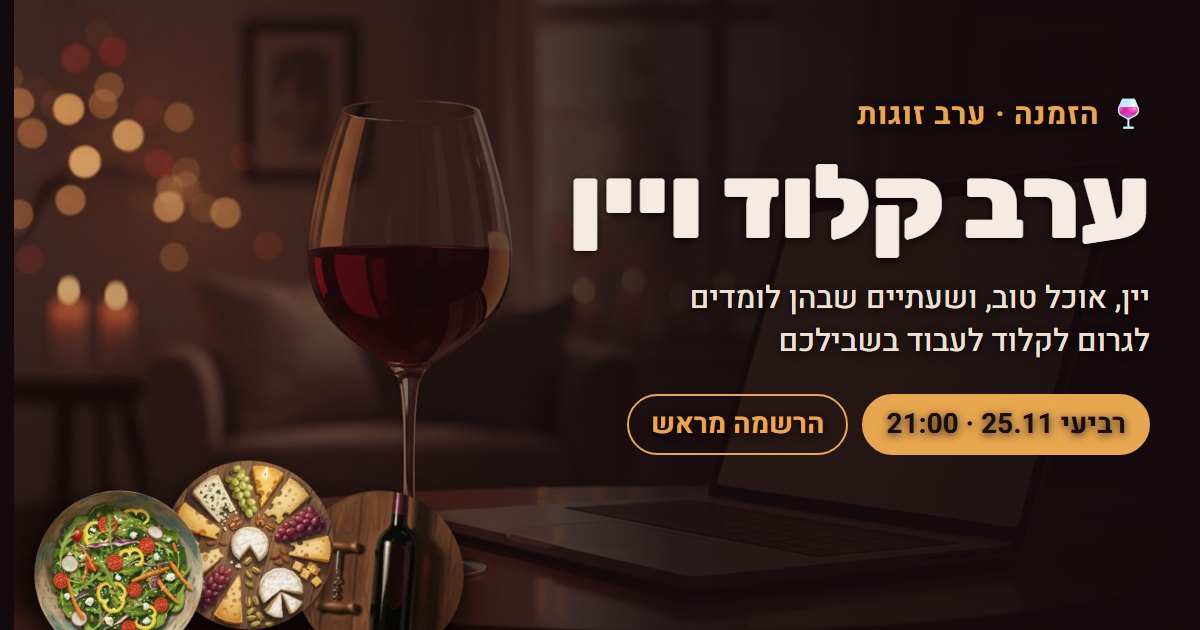
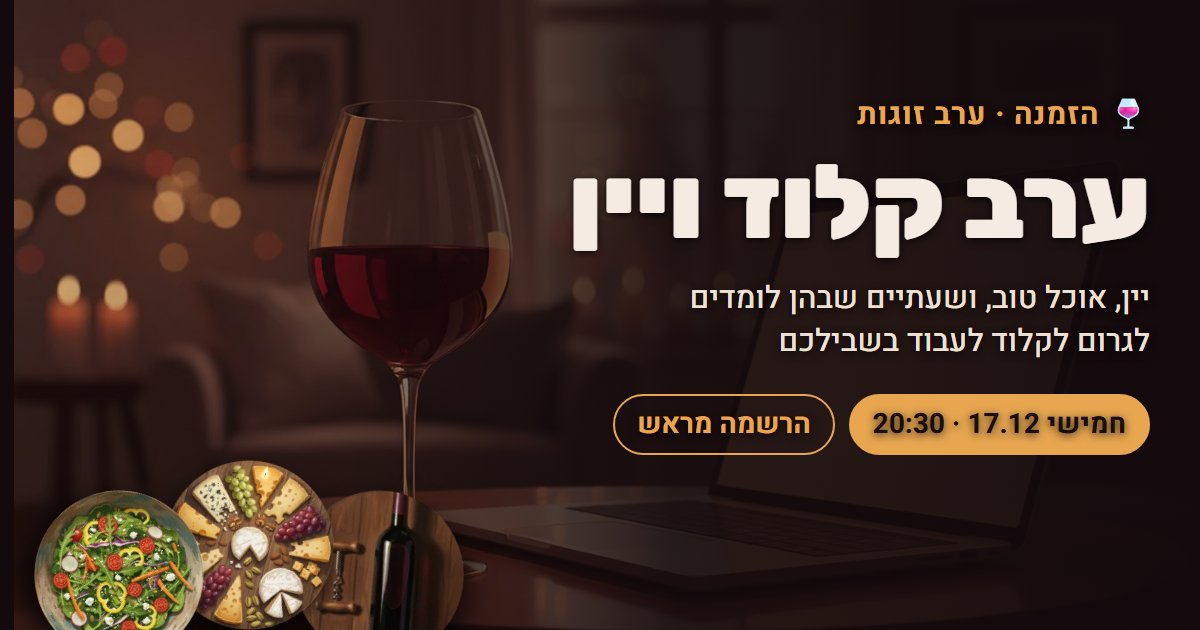
Next evening 17.12 20:30: babysitter option, pasta, new quantities, reordered program

Changed region(s): [[0.4933, 0.6032, 0.9558, 0.7238]]

diff --git a/index.html b/index.html
@@ -7,9 +7,9 @@
 <meta name="description" content="ערב זוגות של יין, אוכל טוב ולמידה: איך גורמים לקלוד לעבוד בשבילכם. מספר המקומות מוגבל, הרשמה מראש.">
 <meta property="og:type" content="website">
 <meta property="og:url" content="https://or-42creative.github.io/claude-wine-signup/">
-<meta property="og:title" content="🍷 ערב קלוד ויין · רביעי 25.11 ב-21:00">
+<meta property="og:title" content="🍷 ערב קלוד ויין · חמישי 17.12 ב-20:30">
 <meta property="og:description" content="ערב זוגות של יין, אוכל טוב ולמידה: איך גורמים לקלוד לעבוד בשבילכם. מספר המקומות מוגבל, הרשמה מראש.">
-<meta property="og:image" content="https://or-42creative.github.io/claude-wine-signup/img/og.jpg">
+<meta property="og:image" content="https://or-42creative.github.io/claude-wine-signup/img/og.jpg?v=1712">
 <meta property="og:image:width" content="1200">
 <meta property="og:image:height" content="630">
 <meta property="og:locale" content="he_IL">
@@ -101,6 +101,9 @@ input[type=email],input[type=tel]{direction:ltr;text-align:right}
 .grp{display:flex;flex-direction:column;align-items:center;gap:8px;min-width:0;transform:translate(var(--gx),var(--gy))}
 .pair{display:flex;justify-content:center;align-items:center;width:100%}
 .pair .plate:nth-child(2){margin-inline-start:-10%;margin-top:22%}
+.pair.trio .plate{width:44%}
+.pair.trio .plate:nth-child(2){margin-inline-start:-9%;margin-top:30%}
+.pair.trio .plate:nth-child(3){margin-inline-start:-9%}
 .grp .cap{font-size:14px;font-weight:700;line-height:1.2;text-align:center;background:rgba(20,10,13,.82);padding:3px 12px;border-radius:999px;white-space:nowrap;transition:.3s}
 .grp.has .cap{background:var(--amber);color:#1a0d10}
 .plate{all:unset;width:54%;cursor:pointer;position:relative;-webkit-tap-highlight-color:transparent;opacity:0}
@@ -150,6 +153,18 @@ input[type=email],input[type=tel]{direction:ltr;text-align:right}
 .p{transition:transform .3s,border-color .3s}.p:hover{transform:translateY(-4px) rotate(-.5deg);border-color:var(--amber)}
 .cta{animation:fadeUp .8s both .48s,bob 2.6s ease-in-out 1.5s infinite}
 @keyframes bob{50%{transform:translateY(-4px)}}
+.bs{margin:2px 0 16px}
+.chk{display:flex;align-items:center;gap:12px;cursor:pointer;font-weight:500;background:#1a0c10;border:1px solid var(--line);border-radius:14px;padding:12px 14px;transition:border .2s,background .2s}
+.chk:hover{border-color:var(--amber)}
+.chk input{position:absolute;opacity:0;width:1px;height:1px}
+.chk .box{flex:none;width:24px;height:24px;border-radius:7px;border:2px solid var(--amber);display:grid;place-items:center;transition:background .2s,transform .3s cubic-bezier(.34,1.56,.64,1)}
+.chk input:checked + .box{background:var(--amber);transform:rotate(-8deg) scale(1.1)}
+.chk input:checked + .box::after{content:"✓";color:#1a0d10;font:900 16px Rubik}
+.chk input:focus-visible + .box{outline:2px solid var(--amber);outline-offset:3px}
+.bs.on .chk{border-color:var(--amber);background:rgba(122,31,51,.35)}
+.bsphone{display:grid;grid-template-rows:0fr;opacity:0;margin:0;transition:grid-template-rows .4s,opacity .4s,margin .4s}
+.bsphone>*{overflow:hidden}
+.bs.on .bsphone{grid-template-rows:auto auto;opacity:1;margin:12px 0 0}
 .submit{width:100%;border:0;cursor:pointer;background:var(--amber);color:#1a0d10;font:800 21px Rubik;padding:16px;border-radius:999px;margin-top:4px}
 .submit:disabled{opacity:.6;cursor:wait}
 .err{color:#ffb4b4;font-weight:500;min-height:1.4em;margin-top:10px;text-align:center}
@@ -198,8 +213,8 @@ footer{text-align:center;color:var(--mute);font-size:14px;padding:34px 20px 60px
     <h1>ערב קלוד ויין</h1>
     <p class="lead">כוס יין, משהו טעים, ושעתיים שבהן לומדים לגרום לקלוד לעבוד בשבילכם: סרטונים, מצגות, מיילים, יומן והמחשב עצמו.</p>
     <div class="chips">
-      <span class="chip">📅 <b>רביעי 25.11.26</b></span>
-      <span class="chip">🕘 <b><bdi dir="ltr">21:00–23:00</bdi></b></span>
+      <span class="chip">📅 <b>חמישי 17.12.26</b></span>
+      <span class="chip">🕘 <b><bdi dir="ltr">20:30–22:30</bdi></b></span>
       <span class="chip">🏠 אצלנו בבית · <b>האשל 46/8</b></span>
     </div>
     <div><a class="cta" href="#signup">להרשמה ←</a><span class="limited"><i class="dot"></i>מספר המקומות מוגבל · כניסה בהרשמה מראש בלבד</span></div>
@@ -234,15 +249,15 @@ footer{text-align:center;color:var(--mute);font-size:14px;padding:34px 20px 60px
     <p class="sub">לא הרצאה. כל אחד עם המחשב שלו, עושים ביחד.</p>
     <div class="prog">
       <div class="p"><span class="e">🤖</span><div><h3>מה זה Claude Desktop</h3><div>ההבדל בין צ'אט שעונה לקלוד שעושה</div></div></div>
-      <div class="p"><span class="e">🎬</span><div><h3>עריכת וידאו</h3><div>חיתוך, כתוביות ותמונות AI, בלי לגעת בתוכנת עריכה</div></div></div>
       <div class="p"><span class="e">🖼</span><div><h3>מצגות מרשימות</h3><div>נותנים ראשי פרקים, מקבלים מצגת עם תמונות</div></div></div>
-      <div class="p"><span class="e">🌐</span><div><h3>קלוד בדפדפן</h3><div>ממלא טפסים, משווה מחירים, מעלה קמפיינים</div></div></div>
+      <div class="p"><span class="e">🌐</span><div><h3>קלוד בכרום</h3><div>ממלא טפסים, משווה מחירים, מעלה קמפיינים</div></div></div>
+      <div class="p"><span class="e">🎬</span><div><h3>סרטונים עם AI</h3><div>מתסריט וקריינות ועד סרטון מוכן, עם FAL</div></div></div>
       <div class="p"><span class="e">📧</span><div><h3>מייל ויומן</h3><div>מחברים פעם אחת, והוא מסכם, מתזמן ומנסח</div></div></div>
       <div class="p"><span class="e">💻</span><div><h3>המחשב שלכם</h3><div>מסדרים תיקיות, מפנים מקום, מבינים את הראוטר</div></div></div>
       <div class="p"><span class="e">📱</span><div><h3>קלוד בטלפון</h3><div>ממשיכים משימות מהספה</div></div></div>
       <div class="p"><span class="e">💡</span><div><h3>איך מדברים איתו</h3><div>טיפים שחוסכים זמן, טוקנים ועצבים</div></div></div>
     </div>
-    <div class="timeline"><span><b>21:00</b> יין, אוכל והתקנות אחרונות</span><span><b>21:20</b> עושים ביחד</span><span><b>22:40</b> שאלות, ניסויים ועוד כוס</span></div>
+    <div class="timeline"><span><b>20:30</b> יין, אוכל והתקנות אחרונות</span><span><b>20:50</b> עושים ביחד</span><span><b>22:10</b> שאלות, ניסויים ועוד כוס</span></div>
   </section>
 
   <section class="reveal">
@@ -255,7 +270,7 @@ footer{text-align:center;color:var(--mute);font-size:14px;padding:34px 20px 60px
 
   <section id="signup" class="reveal">
     <h2>הרשמה: מה אתם מביאים לשולחן?</h2>
-    <p class="sub">כל אחד מביא משהו קטן, ויוצא שולחן מלא. סמנו על השולחן מה אתם מביאים.</p>
+    <p class="sub">כל אחד מביא משהו קטן, ויוצא שולחן מלא. בחרו על השולחן דבר אחד או שניים להביא.</p>
     <div class="tablewrap"><div class="table" id="table"><div class="plates" id="plates"></div></div>
       <div class="legend"><span><i style="background:var(--amber)"></i>הבחירה שלכם</span><span><i style="background:#555"></i>כבר נלקח</span></div></div>
     <div class="formcard" id="formcard">
@@ -270,6 +285,10 @@ footer{text-align:center;color:var(--mute);font-size:14px;padding:34px 20px 60px
         </div>
         <div class="row">
           <label class="f"><span>כמה מגיעים? <small>(זה ערב זוגות. תבואו זוג.)</small></span><div class="party" id="party"></div></label>
+        </div>
+        <div class="bs" id="bsBox">
+          <label class="chk"><input type="checkbox" id="bs"><span class="box"></span><span>👶 אני מעוניין לקבל הצעה לבייביסיטר מראשית אסולין</span></label>
+          <label class="f bsphone" id="bsPhone"><span>טלפון <small>(כדי שראשית תוכל לדבר איתכם)</small></span><input id="phone" type="tel" autocomplete="tel" inputmode="tel" placeholder="050-0000000"></label>
         </div>
         <button class="submit" id="submit" type="submit">שמרו לי מקום 🍷</button>
         <div class="err" id="err"></div>
@@ -314,10 +333,12 @@ const SCRIPT_URL = 'https://script.google.com/macros/s/AKfycbx-CqmrwhvTNykFo4mq8
 const LIVE = SCRIPT_URL.startsWith('https://script.google.com/') && !location.search.includes('demo');
 
 // fallback until the server answers (same list as Code.gs)
-let state = {capacity:14, seatsLeft:14, maxParty:4, items:[
-  ['wine','בקבוק יין'],['salad','סלט'],['cheese','גבינות'],['bread','לחם'],
-  ['crackers','קרקרים'],['quiche','פשטידה'],['dips','זיתים או מטבלים'],['dessert','קינוח']
-].map(([id,name]) => ({id, name, max:2, left:2})).concat([{id:'other', name:'משהו אחר', max:0, left:-1}])};
+let state = {capacity:14, seatsLeft:14, maxParty:4, babysitter:true, items:[
+  ['wine','בקבוק יין',2],['salad','סלט',3],['cheese','גבינות',2],['bread','לחם',1],['crackers','קרקרים',1],
+  ['pasta','פסטה',2],['quiche','פשטידה',2],['dessert','קינוח',3],['dips','זיתים או מטבלים',2]
+].map(([id,name,max]) => ({id, name, max, left:max})).concat([{id:'other', name:'משהו אחר', max:0, left:-1}])};
+// items that share one spot on the table (one plate each)
+const SHARE = {bread:'bakery', crackers:'bakery'};
 let party = 2, picked = new Map(), mine = new Map(), busy = false, done = false;
 const $ = id => document.getElementById(id);
 
@@ -325,12 +346,20 @@ function buildTable(){
   $('plates').innerHTML = '';
   let d = 0;
   const rnd = (a, b) => a + Math.random() * (b - a);
+  const groups = [];
   state.items.forEach(it => {
-    const max = it.max > 0 ? it.max : 1;
+    const key = SHARE[it.id] || it.id, g = groups.find(x => x.key === key);
+    g ? g.items.push(it) : groups.push({key, items:[it]});
+  });
+  groups.forEach(({items}) => {
     const g = document.createElement('div');
-    g.className = 'grp' + (it.max > 0 ? '' : ' center'); g.dataset.id = it.id;
+    g.className = 'grp' + (items[0].max > 0 ? '' : ' center'); g.dataset.ids = items.map(i => i.id).join(' ');
     g.style.cssText = `--gx:${rnd(-8,8)}px;--gy:${rnd(-6,6)}px`;
-    const pair = document.createElement('div'); pair.className = 'pair';
+    const pair = document.createElement('div');
+    const n = items.reduce((a, i) => a + (i.max > 0 ? i.max : 1), 0);
+    pair.className = 'pair' + (n === 3 ? ' trio' : '');
+    items.forEach(it => {
+    const max = it.max > 0 ? it.max : 1;
     for (let c = 0; c < max; c++){
       const b = document.createElement('button');
       b.type = 'button'; b.className = 'plate'; b.dataset.id = it.id; b.dataset.copy = c;
@@ -340,8 +369,9 @@ function buildTable(){
       b.onclick = () => toggle(it.id, c, b);
       pair.appendChild(b);
     }
+    });
     g.appendChild(pair);
-    g.insertAdjacentHTML('beforeend', `<span class="cap">${it.name}</span>`);
+    g.insertAdjacentHTML('beforeend', `<span class="cap">${items.map(i => i.name).join(' · ')}</span>`);
     $('plates').appendChild(g);
   });
 }
@@ -379,14 +409,14 @@ function render(){
     p.querySelector('.card').textContent = isMine ? 'שלכם 🥂' : 'נלקח ✓';
     p.disabled = taken || done;
   });
-  $('plates').querySelectorAll('.grp').forEach(g => g.classList.toggle('has', picked.has(g.dataset.id) || mine.has(g.dataset.id)));
+  $('plates').querySelectorAll('.grp').forEach(g => g.classList.toggle('has', g.dataset.ids.split(' ').some(id => picked.has(id) || mine.has(id))));
   $('plates').classList.toggle('picking', picked.size > 0);
   const list = [...picked.keys()].map(id => byId[id]);
   const label = i => i.name + (picked.get(i.id).size > 1 ? ' ×' + picked.get(i.id).size : '');
   $('pick').classList.toggle('on', list.length > 0);
   $('pick').innerHTML = list.length
     ? list.map(i => `<img src="img/${i.id}.webp" alt="">`).join('') + `<span>מביאים: <b>${list.map(label).join(', ')}</b></span>`
-    : '👆 סמנו על השולחן מה אתם מביאים';
+    : '👆 בחרו על השולחן דבר אחד או שניים להביא';
   $('formcard').classList.toggle('ready', list.length > 0);
   if (done) return;
   const w = waitMode();
@@ -394,6 +424,8 @@ function render(){
   $('full').querySelector('h3').textContent = s.seatsLeft > 0 ? `נשאר רק מקום ${s.seatsLeft === 1 ? 'אחד' : s.seatsLeft}` : 'כל המקומות נתפסו';
   if (w) picked.clear();
   $('submit').textContent = w ? 'הוסיפו אותי לרשימת ההמתנה ⏳' : 'שמרו לי מקום 🍷';
+  $('bsBox').hidden = !s.babysitter;
+  $('bsBox').classList.toggle('on', !!s.babysitter && $('bs').checked);
   $('party').innerHTML = '';
   for (let k = 1; k <= 2; k++){
     const b = document.createElement('button');
@@ -413,19 +445,22 @@ async function load(first){
 
 function waitMode(){ return state.seatsLeft <= 0 || party > state.seatsLeft; }
 
+$('bs').addEventListener('change', () => { $('bsBox').classList.toggle('on', $('bs').checked); if ($('bs').checked) setTimeout(() => $('phone').focus(), 250); });
 $('form').addEventListener('submit', async e => {
   e.preventDefault();
-  const name = $('name').value.trim(), email = $('email').value.trim(), phone = '';
+  const name = $('name').value.trim(), email = $('email').value.trim();
+  const babysitter = !!state.babysitter && $('bs').checked, phone = babysitter ? $('phone').value.trim() : '';
   const wait = waitMode();
-  if (!wait && !picked.size){ $('table').scrollIntoView({behavior:'smooth', block:'center'}); return err('סמנו על השולחן מה אתם מביאים 🙂'); }
+  if (!wait && !picked.size){ $('table').scrollIntoView({behavior:'smooth', block:'center'}); return err('בחרו על השולחן מה אתם מביאים 🙂'); }
   if (!name) return err('איך קוראים לכם?', 'name');
   if (!/^[^@\s]+@[^@\s]+\.[^@\s]+$/.test(email)) return err('המייל לא נראה תקין', 'email');
+  if (babysitter && phone.replace(/\D/g, '').length < 9) return err('בשביל הבייביסיטר צריך טלפון', 'phone');
   busy = true; $('submit').disabled = true; $('submit').textContent = 'שומרים…'; err('');
   const items = [...picked].flatMap(([id, set]) => Array(set.size).fill(id));
   let res = {ok:true};
   try {
     if (LIVE) res = await (await fetch(SCRIPT_URL, {method:'POST', headers:{'Content-Type':'text/plain;charset=utf-8'},
-      body: JSON.stringify({name, email, phone, party, items: wait ? [] : items, waitlist: wait})})).json();
+      body: JSON.stringify({name, email, phone, party, babysitter, items: wait ? [] : items, waitlist: wait})})).json();
     else { await new Promise(r => setTimeout(r, 700));
       res = wait ? {...state, ok:true, waitlist:true} : {...state, ok:true, seatsLeft:state.seatsLeft - party, items:state.items.map(i => items.includes(i.id) ? {...i, left:i.left - items.filter(y => y === i.id).length} : i)}; }
   } catch(x){ res = {ok:false, msg:'משהו נתקע בחיבור. נסו שוב בעוד רגע'}; }
@@ -444,6 +479,7 @@ $('form').addEventListener('submit', async e => {
   mine = new Map([...picked].map(([id, set]) => { const it = state.items.find(i => i.id === id), from = Math.max(0, it.left);
     return [id, new Set(Array.from({length:set.size}, (_, k) => from + k))]; })); picked = new Map(); done = true;
   $('doneTxt').innerHTML = `${party === 1 ? 'מקום אחד שמור' : party + ' מקומות שמורים'} · מביאים <b>${names.join(', ')}</b>`;
+  if (babysitter) $('doneSub').textContent = 'שלחנו מייל עם הכתובת, קוד הכניסה וההוראות להתקנה, וגם זימון ליומן. ראשית תיצור איתכם קשר לגבי הבייביסיטר 👶';
   $('form').hidden = true; $('done').hidden = false;
   render();
   document.querySelectorAll('.plate.mine').forEach(p => confetti(p));
